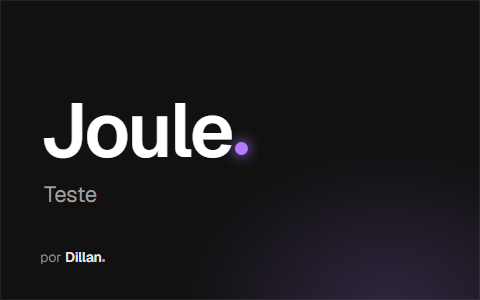
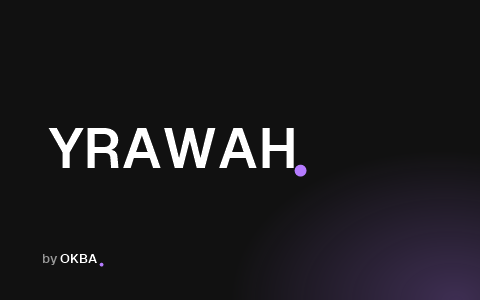
Download button gets the installer; YRAWAH installer splash.
The README's Download for Windows button now downloads YRAWAH-Setup.exe
from the latest release, and the Download section explains the
installer and the portable zip. The installer splash says YRAWAH by
OKBA instead of the original artwork.

diff --git a/README.md b/README.md
@@ -14,7 +14,7 @@
 <p align="center"><img src="docs/images/bandeira-us.png" alt="" height="14"> <strong>English</strong> · <a href="README.pt-BR.md"><img src="docs/images/bandeira-br.png" alt="" height="14"> Português</a></p>
 
 <p align="center">
-  <a href="https://github.com/oookbaaa/YRAWAH/releases/latest"><img src="https://img.shields.io/badge/Download_for_Windows-FFC21F?style=for-the-badge" alt="Download for Windows" height="40"></a>
+  <a href="https://github.com/oookbaaa/YRAWAH/releases/latest/download/YRAWAH-Setup.exe"><img src="https://img.shields.io/badge/Download_for_Windows-FFC21F?style=for-the-badge" alt="Download for Windows" height="40"></a>
 </p>
 
 <p align="center"><img src="docs/images/yrawah.png" alt="YRAWAH panel and edge widget, dark theme" width="85%"></p>
@@ -45,10 +45,13 @@ battery your wireless devices have left. It is free, open source and in
 
 ## Download
 
-Get the portable zip from the
+Click **Download for Windows** above to get `YRAWAH-Setup.exe`, then run it. It
+installs for your user only (no administrator rights), adds YRAWAH to the Start
+menu and starts it with Windows. Remove it from *Installed apps*.
+
+Prefer no installation? Get `YRAWAH-0.3.0-portable.zip` from the
 [Releases page](https://github.com/oookbaaa/YRAWAH/releases), unzip it and run `YRAWAH.exe`.
 
-- No administrator rights and no installation needed.
 - The app is not digitally signed, so Windows SmartScreen will warn you.
   Click **More info**, then **Run anyway**.
 - YRAWAH does not update itself and makes no network requests.

diff --git a/README.pt-BR.md b/README.pt-BR.md
@@ -14,7 +14,7 @@
 <p align="center"><img src="docs/images/bandeira-br.png" alt="" height="14"> <strong>Português</strong> · <a href="README.md"><img src="docs/images/bandeira-us.png" alt="" height="14"> English</a></p>
 
 <p align="center">
-  <a href="https://github.com/oookbaaa/YRAWAH/releases/latest"><img src="https://img.shields.io/badge/Baixar_para_Windows-FFC21F?style=for-the-badge" alt="Baixar para Windows" height="40"></a>
+  <a href="https://github.com/oookbaaa/YRAWAH/releases/latest/download/YRAWAH-Setup.exe"><img src="https://img.shields.io/badge/Baixar_para_Windows-FFC21F?style=for-the-badge" alt="Baixar para Windows" height="40"></a>
 </p>
 
 <p align="center"><img src="docs/images/yrawah.png" alt="Painel e widget de borda do YRAWAH, tema escuro" width="85%"></p>
@@ -44,10 +44,13 @@ está em **beta**.
 
 ## Baixar
 
-Baixe o zip portátil na
+Clique em **Baixar para Windows** acima para baixar o `YRAWAH-Setup.exe` e abra o arquivo.
+Ele instala só para o seu usuário (sem administrador), coloca o YRAWAH no menu Iniciar
+e o abre junto com o Windows. Para remover, use *Aplicativos instalados*.
+
+Prefere sem instalar? Baixe o `YRAWAH-0.3.0-portable.zip` na
 [página de Releases](https://github.com/oookbaaa/YRAWAH/releases), descompacte e abra o `YRAWAH.exe`.
 
-- Não precisa de administrador nem de instalação.
 - O app não tem assinatura digital, então o Windows SmartScreen avisa.
   Clique em **Mais informações** e depois em **Executar assim mesmo**.
 - O YRAWAH não se atualiza sozinho e não usa a rede.
